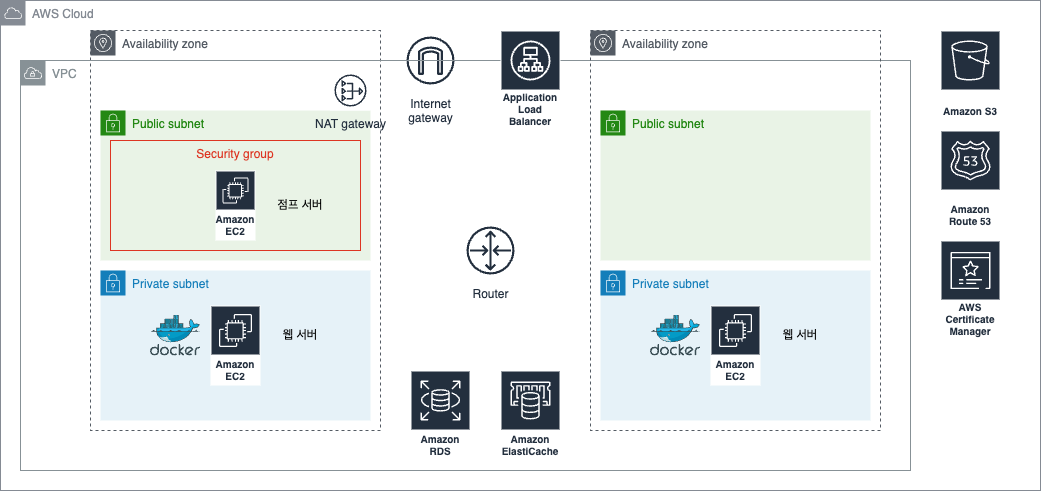
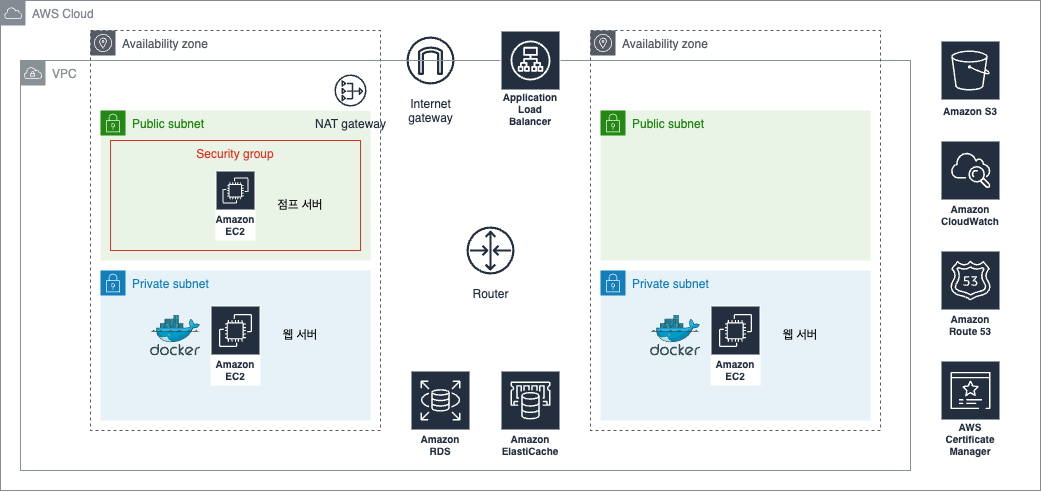
README.md 파일 수정

diff --git a/README.md b/README.md
@@ -36,10 +36,11 @@
      - Redis 
    - 인프라
      - Docker
-     - Github Action
+     - GitHub Action
      - AWS EC2, AWS ELB
-     - AWS RDS
-     - AWS ElastiCache
+     - AWS RDS, AWS ElastiCache, AWS S3
+     - AWS CloudWatch
+     - AWS Cognito
      - AWS Network Services (VPC, Subnet, Routing Table, Internet Gateway, NAT Gateway)
      - AWS Route53, AWS Certificate Manager
 ## 아키텍처
@@ -50,5 +51,5 @@
    - 김건우: iOS 개발
    - 박단비: AOS 개발
    - 정태영: 백엔드 개발
-   - 최다예: 디자인, 프로젝트 리딩
-   - 허정민: 백엔드 개발, QA
+   - 최다예: 디자인, QA(디자인, 기능)
+   - 허정민: 백엔드 개발, 운영
